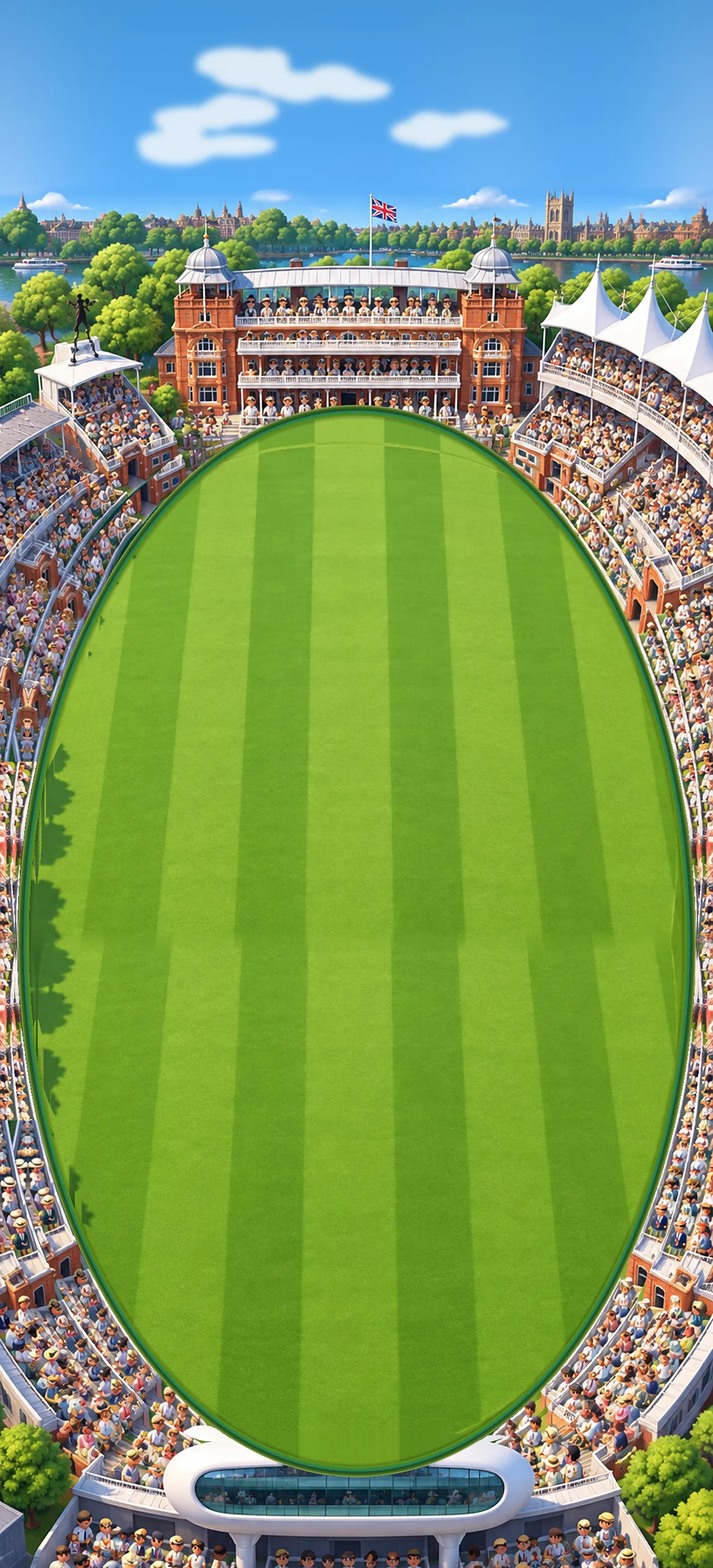
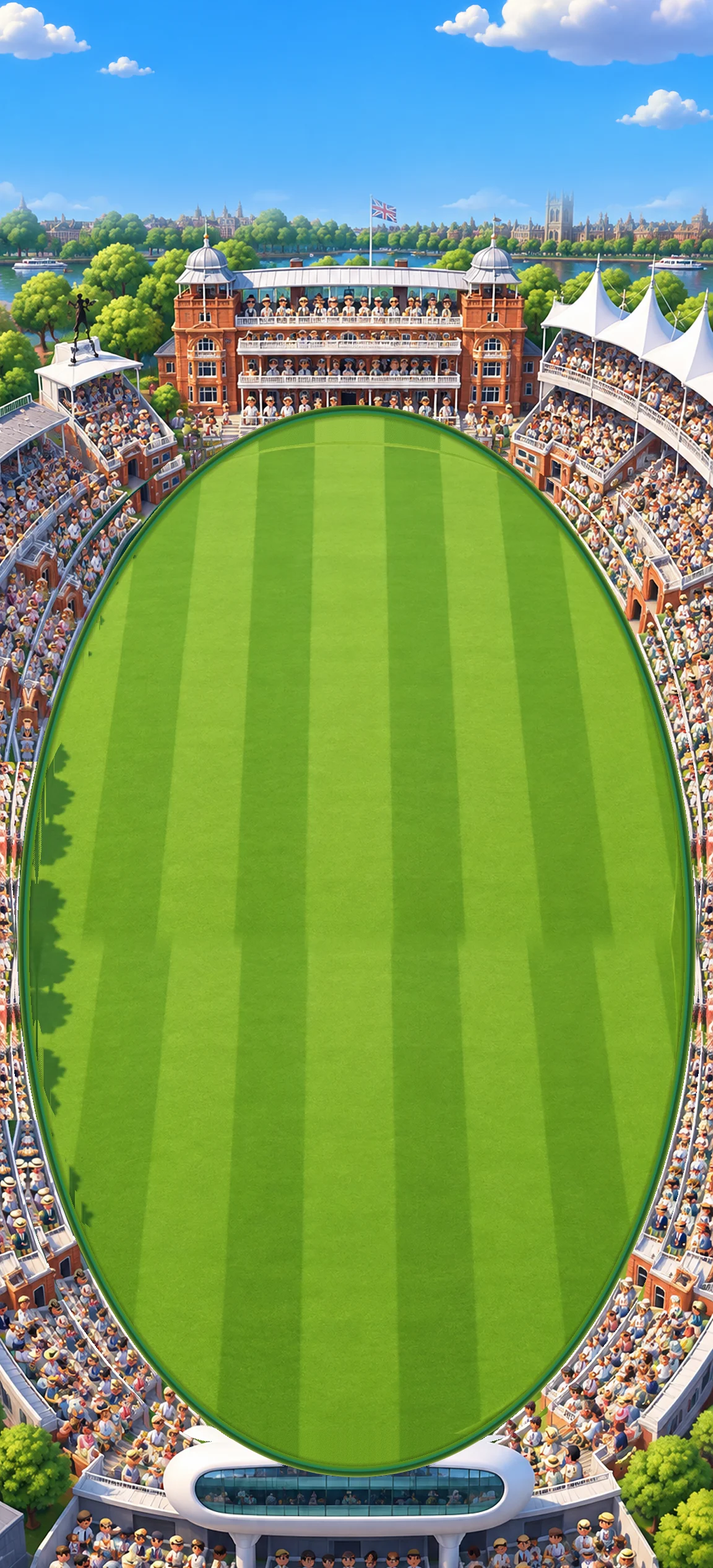
5.a Lord's: painted cartoon sky blended above the stadium instead of a generated fill
Claude-Session: https://claude.ai/code/session_01EnXvJ6P6HcGRxjBSnYPdAU

Changed region(s): [[0.0, 0.0, 1.0, 0.156], [0.625, 0.1248, 0.7188, 0.156], [0.5, 0.1248, 0.5625, 0.156]]

diff --git a/art/grounds/lords/build_v3fix.py b/art/grounds/lords/build_v3fix.py
@@ -22,25 +22,25 @@ def stretch(L):
 def make(L,s):
   im,ey2=stretch(L); up=cv2.resize(im,(round(im.shape[1]*s),round(im.shape[0]*s)),interpolation=cv2.INTER_CUBIC)
   ox=int(round(ex*s-cx)); oy=int(round(ey2*s-cy))
-  if oy<0:   # summer sky above the painting: painted sky colour deepening to clear blue, a few soft clouds
-    n=-oy; top=cv2.GaussianBlur(up[:8].mean(0,keepdims=True),(0,0),sigmaX=80,sigmaY=0.1)[0]
-    t=np.linspace(1,0,n)[:,None,None]; ext=top[None]*(1-t*0.7)+np.array([205,140,60.])*(t*0.7)
-    rng=np.random.default_rng(5); cl=np.zeros(ext.shape[:2],np.float32)
-    for _ in range(5):
-      cx_,cy_=rng.integers(80,up.shape[1]-80),rng.integers(int(n*.25),int(n*.8))
-      for k in range(6): cv2.ellipse(cl,(int(cx_+rng.integers(-60,60)),int(cy_+rng.integers(-12,12))),(int(rng.integers(30,70)),int(rng.integers(14,26))),0,0,360,1,-1)
-    cl=cv2.GaussianBlur(cl,(0,0),6)[...,None]*0.85; ext=ext*(1-cl)+np.array([250,248,245.])*cl
-    F2=24; w2=np.linspace(0,1,F2)[:,None,None]; up[:F2]=ext[-1:]*(1-w2)+up[:F2]*w2
-    up=np.concatenate([ext,up],0); oy=0
+  if oy<0:   # PAINTED sky above the plate (Figma 402:191, cartoon clouds), colour-matched to the plate's own top rows, crossfaded
+    n=-oy; sky=cv2.imread('raw/sky_402-191.png').astype(np.float32)
+    k=up.shape[1]/sky.shape[1]; sky=cv2.resize(sky,(up.shape[1],round(sky.shape[0]*k)),interpolation=cv2.INTER_CUBIC)
+    F2=90; need=n+F2
+    if sky.shape[0]<need: sky=np.concatenate([np.repeat(sky[:1],need-sky.shape[0],0),sky],0)
+    sky=sky[-need:]
+    gain=up[:12].reshape(-1,3).mean(0)/np.maximum(sky[-F2:-F2+12].reshape(-1,3).mean(0),1)   # match the colour where they meet
+    ramp=np.linspace(0,1,need)[:,None,None]**1.5; sky=sky*(1+(gain-1)*ramp)
+    w2=np.linspace(0,1,F2)[:,None,None]; up[:F2]=sky[-F2:]*(1-w2)+up[:F2]*w2
+    up=np.concatenate([sky[:-F2],up],0); oy=0
   c=up[oy:oy+H,max(ox,0):max(ox,0)+W]
   if c.shape[0]<H: c=np.concatenate([c,np.repeat(c[-1:],H-c.shape[0],0)],0)
   return np.clip(c,0,255).astype(np.uint8)
-best=None
-for L in range(0,260,20):
+best=(0,200,1.36) if len(sys.argv)>1 and sys.argv[1]=='fast' else None
+for L in ([] if best else range(0,260,20)):
   for s in np.arange(1.28,1.42,0.01):
     o=make(L,s); r=measure(o,9); e=np.abs(r[:,1]).max()
     if best is None or e<best[0]: best=(e,L,s)
 print('best',best)
-if len(sys.argv)>1:
+if len(sys.argv)>1:  # 'go' = search, 'fast' = reuse the found L/s
   e,L,s=best; o=make(L,s); r=measure(o,3); print('final max',round(float(np.abs(r[:,1]).max()),1),'p90',round(float(np.percentile(np.abs(r[:,1]),90)),1))
   cv2.imwrite('plate_v3fix.png',o)

diff --git a/art/ui/HANDOVER.md b/art/ui/HANDOVER.md
@@ -774,3 +774,4 @@ After that: sprint 7 app-store build on Joe's Mac (RevenueCat with store-confirm
 
 - 5.a Lord's FINAL approach (Joe preferred v3 400:192 but 'overlapping sides, middle narrower'): ONE equator band (build_v3fix.py, 220 rows) + **ring.py**: fill everything inside the coded oval with grass rebuilt per column from the painted stripes, then draw a NEW board ring exactly on the coded oval using the painted boards' own cross-section (sampled at the right equator), cover leftover grass outside it with the stand walkway colour. Crowd/stands never warped. Ring error max 2 phone px. **Use ring.py whenever a painted stadium field won't match the oval.**
 - 5.a Lord's fresh pass (Joe: liked the FIRST version — more stadium + Media Centre): back to 399:191 (one equator band, scale 1.36) + ring.py v2: (a) grass inside the coded oval rebuilt from the same column's painted grass (painted tree shadows kept as grass), (b) grass/old boards outside the new ring replaced by the stand front pulled in RIGIDLY per angle (one smoothed offset per angle — no streaks), (b2) the cropped mid-left strip mirrored from the right stands (only where the strip is <60 px), (c) new boards from the painted cross-section. Boards within ~1-2 px.
+- 5.a Lord's: painted sky (Figma 402:191, cartoon clouds) blended above the plate instead of the procedural sky — colour-matched to the plate's top rows, 90 px crossfade (build_v3fix.py; run 'fast' to reuse L=200, s=1.36). Reusable for any plate that stops short at the top.
